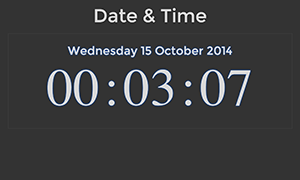
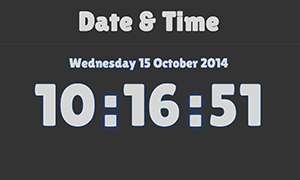
Font size and picture
Font size and picture changed

Changed region(s): [[0.09, 0.25, 0.9, 0.7222], [0.24, 0.0278, 0.75, 0.1944]]

diff --git a/work/clock/css/style.css b/work/clock/css/style.css
@@ -6,7 +6,7 @@ body {
 
 h1 {
 	font-family: 'Lilita One', cursive;
-	font-size: 3.5em normal;
+	font-size: 4.5em;
 	padding: 20px;
 	margin: 0;
 	text-align: center;
